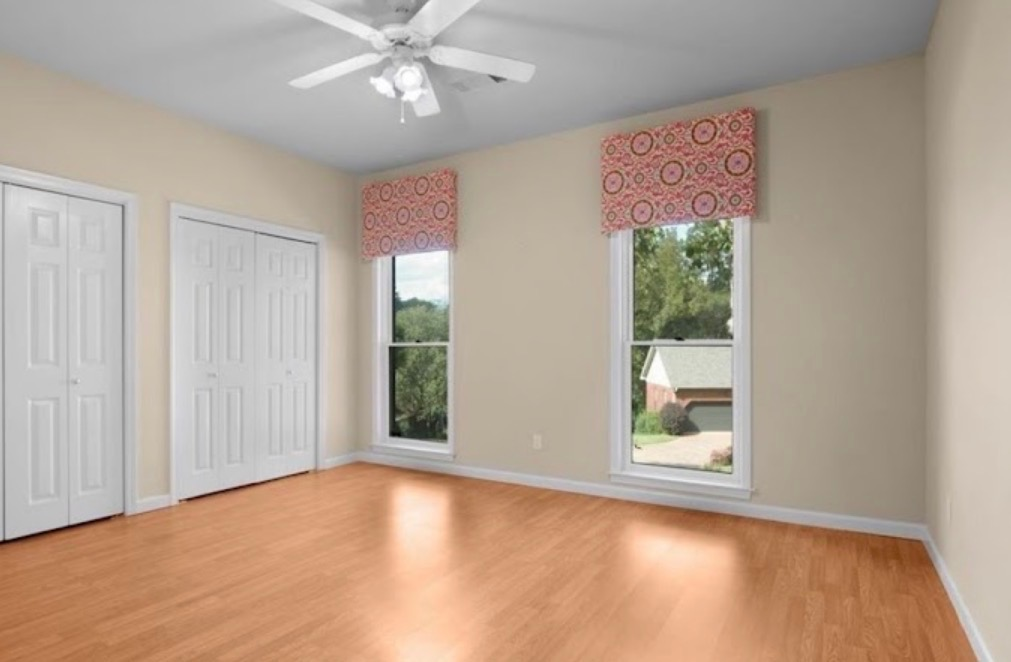
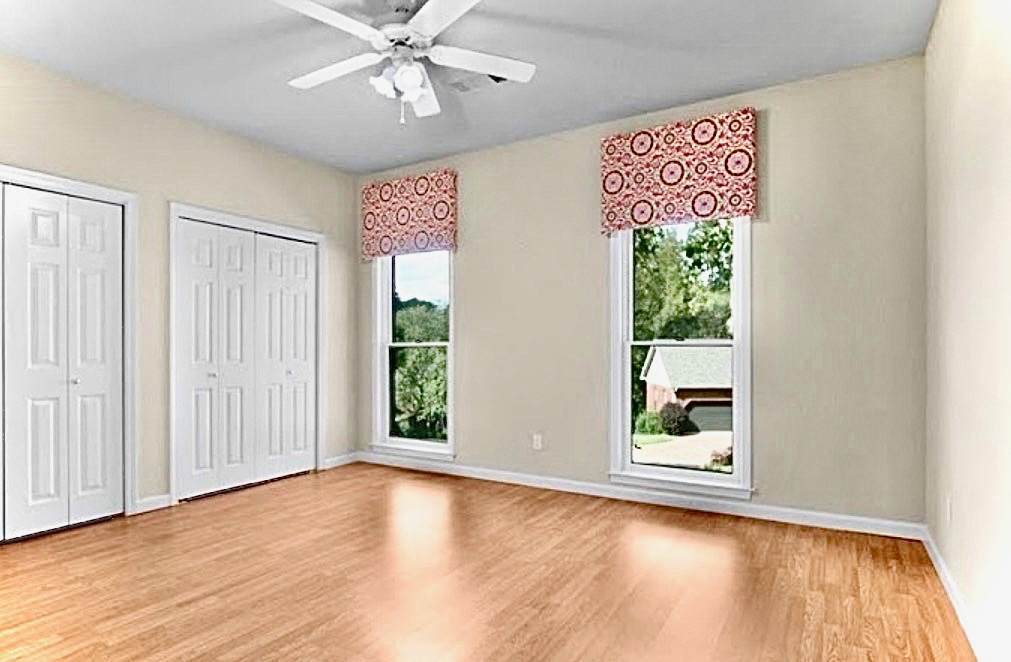
updated image sizes etc

diff --git a/src/components/Gallery.tsx b/src/components/Gallery.tsx
@@ -5,9 +5,9 @@ import SectionHeading from "./SectionHeading";
 
 const gallery = [
   "/images/gallery/gallery-1.jpeg",
-  "/images/gallery/gallery-2.jpeg",
+  "/images/gallery/gallery-2.png",
   "/images/gallery/gallery-3.jpeg",
-  "/images/gallery/gallery-4.jpg",
+  "/images/gallery/gallery-4.png",
 ];
 
 export default function Gallery() {
@@ -64,15 +64,16 @@ export default function Gallery() {
                   {item.label}
                 </div>
 
-                <div className="relative aspect-[4/3] overflow-hidden rounded-[20px] bg-[#d8d1c7]">
-                  <Image
-                    src={item.src}
-                    alt={item.alt}
-                    fill
-                    sizes="(max-width: 768px) 100vw, 50vw"
-                    className="object-cover"
-                  />
-                </div>
+             <div className="overflow-hidden rounded-[20px] bg-[#d8d1c7]">
+  <Image
+    src={item.src}
+    alt="Project photo"
+    width={1200}
+    height={800}
+    sizes="(max-width: 768px) 100vw, 33vw"
+    className="h-auto w-full object-contain"
+  />
+</div>
               </div>
             ))}
           </div>

diff --git a/src/components/Footer.tsx b/src/components/Footer.tsx
@@ -32,13 +32,15 @@ export default function Footer() {
           {/* RIGHT */}
           <div className="flex flex-col items-start text-sm text-[#4f4a45] md:items-end">
             
-            <Image
-              src="/images/logo.png"
-              alt={site.name}
-              width={58}
-              height={58}
-              className="mb-3 opacity-90"
-            />
+         <Image
+  src="/images/logo.png"
+  alt={site.name}
+  width={90}
+  height={90}
+  quality={100}
+  priority
+  className="mb-3 h-[58px] w-[58px] object-contain"
+/>
 
             <a
               href={`tel:${site.phoneRaw}`}

diff --git a/src/components/Header.tsx b/src/components/Header.tsx
@@ -13,13 +13,15 @@ export default function Header() {
       <div className="container flex h-20 items-center justify-between">
         
         <Link href="/" className="flex items-center gap-3">
-          <Image
-            src="/images/logo.png"
-            alt={site.name}
-            width={52}
-            height={52}
-            priority
-          />
+        <Image
+  src="/images/logo.png"
+  alt={site.name}
+  width={90}
+  height={90}
+  quality={100}
+  priority
+  className="h-[52px] w-[52px] object-contain"
+/>
 
           <div className="leading-tight">
             <p className="text-lg font-black tracking-tight text-[#1b1b1b]">

diff --git a/src/components/Hero.tsx b/src/components/Hero.tsx
@@ -8,12 +8,13 @@ export default function Hero() {
     <section className="relative overflow-hidden">
       
       {/* BACKGROUND IMAGE */}
-      <div
-        className="absolute inset-0 bg-cover bg-center"
-        style={{
-          backgroundImage: "url('/images/gallery/gallery-2.jpeg')",
-        }}
-      />
+  <div className="absolute inset-0">
+  <img
+    src="/images/gallery/gallery-2.png"
+    alt=""
+    className="h-full w-full object-cover object-[center_35%]"
+  />
+</div>
 
       {/* DARK OVERLAY */}
       <div className="absolute inset-0 bg-[rgba(20,20,20,0.58)]" />